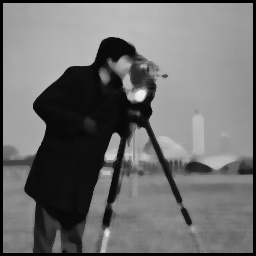
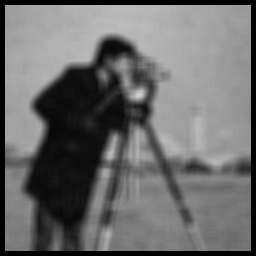
exo 4 depuis la correction

Changed region(s): [[0.0, 0.0, 1.0, 1.0], [0.4062, 0.375, 0.4375, 0.4062], [0.375, 0.4062, 0.4062, 0.4375]]

diff --git a/Traitement_Images/td-04/src/tp4_exo1.cpp b/Traitement_Images/td-04/src/tp4_exo1.cpp
@@ -180,6 +180,38 @@ void median_filter(const cv::Mat &src, cv::Mat &dst, const int size)
   }
 }
 
+///////////////////////////////////////////////////////////////////////////////
+cv::Mat image_integral(const cv::Mat &image)
+{
+  cv::Mat dst = cv::Mat(image.size(), CV_32S, cv::Scalar(0));
+  for (int i = 0; i < dst.rows; ++i)
+  {
+    for (int j = 0; j < dst.cols; ++j)
+    {
+      dst.at<int>(i, j) = int(image.at<unsigned char>(i, j)) + dst.at<int>(std::max(i - 1, 0), j) + dst.at<int>(i, std::max(j - 1, 0)) - dst.at<int>(std::max(i - 1, 0), std::max(j - 1, 0));
+    }
+  }
+  return dst;
+}
+
+///////////////////////////////////////////////////////////////////////////////
+cv::Mat blur_integral(const cv::Mat &image, const int size)
+{
+  cv::Mat integral = image_integral(image);
+  cv::Mat dst(image.size(), CV_8UC1, cv::Scalar(0));
+
+  const int half_size = size / 2;
+  for (int i = half_size; i < dst.rows - half_size; ++i)
+  {
+    for (int j = half_size; j < dst.cols - half_size; ++j)
+    {
+
+      dst.at<unsigned char>(i, j) = (integral.at<int>(i - half_size, j - half_size) + integral.at<int>(i + half_size, j + half_size) - integral.at<int>(i - half_size, j + half_size) - integral.at<int>(i + half_size, j - half_size)) / ((size - 1) * (size - 1));
+    }
+  }
+  return dst;
+}
+
 //////////////////////////////////////////////////////////////////////////////////////////////////
 int main(int argc, char **argv)
 {
@@ -274,6 +306,12 @@ int main(int argc, char **argv)
   std::cout << "appuyer sur une touche pour voir le filtre median de taille " << med_size << std::endl;
   median_filter(image, filtered_image, med_size);
   cv::waitKey();
+  cv::imshow("image", filtered_image);
+
+  // blur integral image
+  std::cout << "appuyer sur une touche pour voir le blur integral" << std::endl;
+  cv::waitKey();
+  filtered_image = blur_integral(image, 11);
   cv::imshow("image", filtered_image);
 
   ////////////////////////////////
